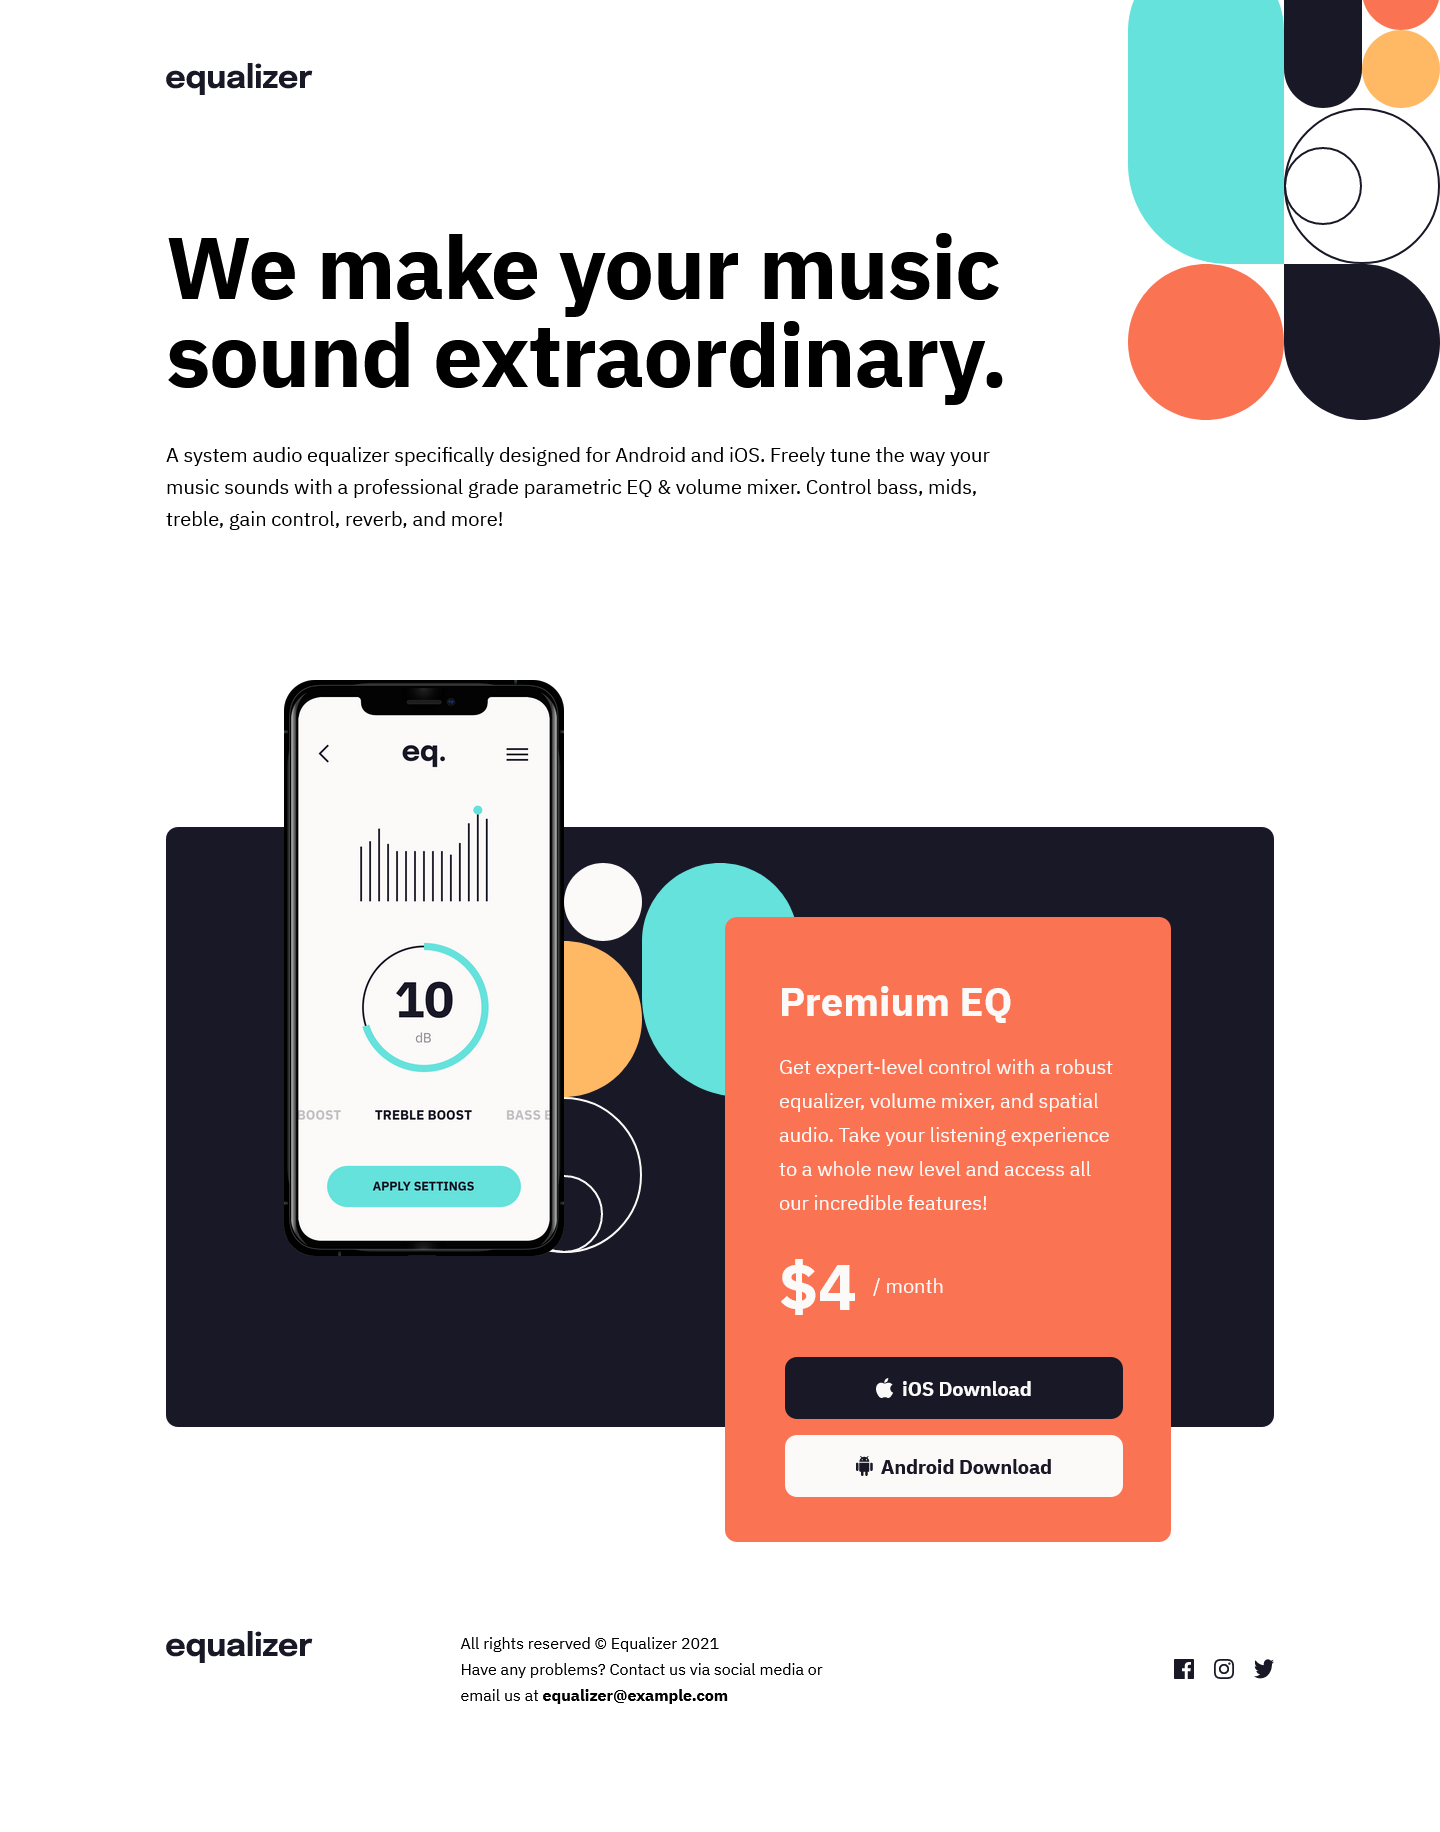
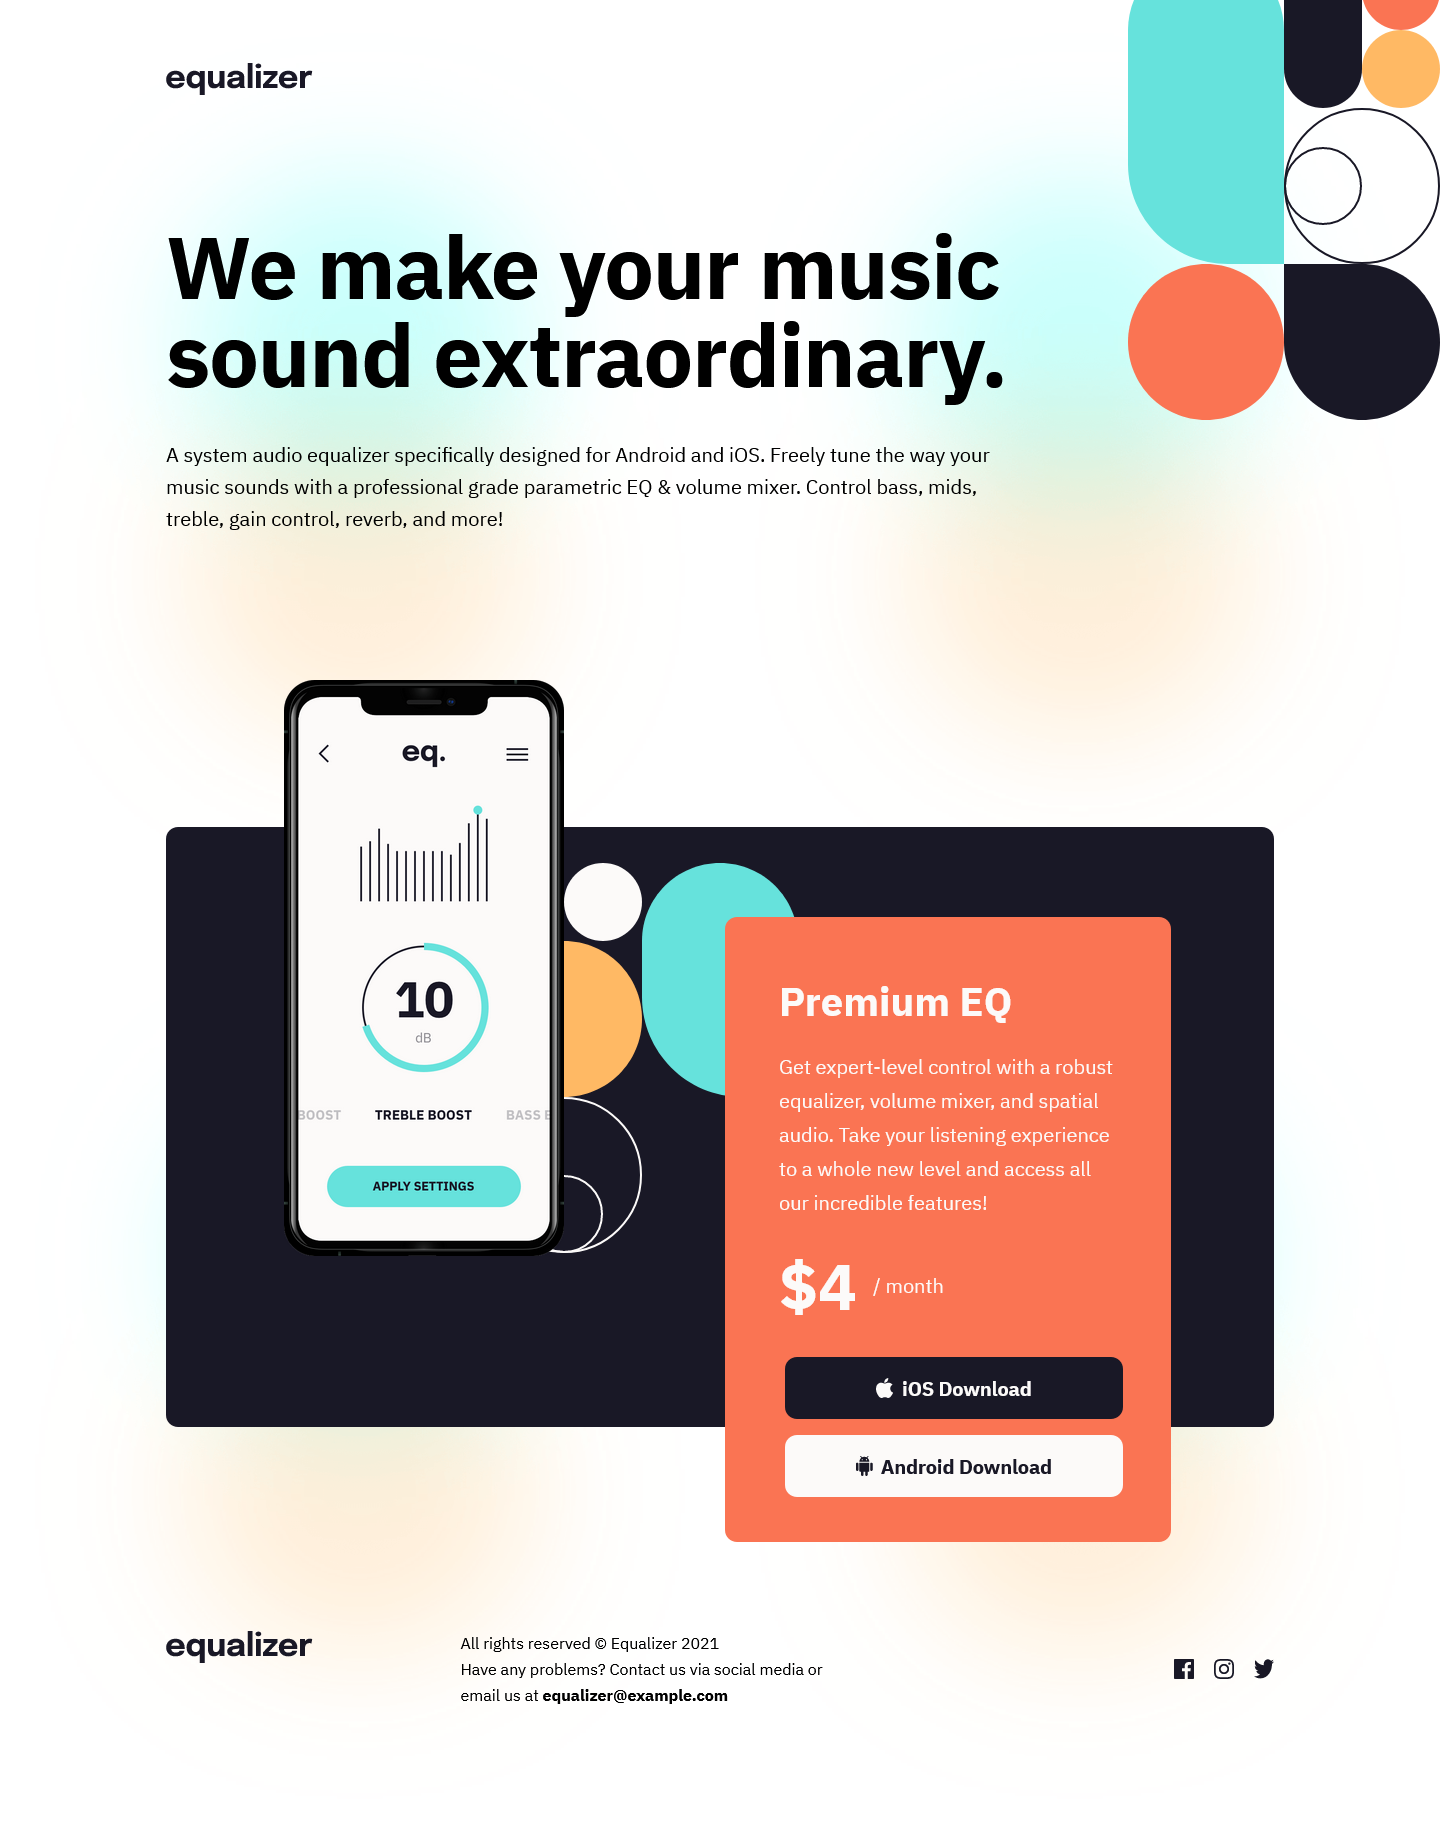
equalizer-landing-page/screenshots updated

diff --git a/equalizer-landing-page/style.css b/equalizer-landing-page/style.css
@@ -152,7 +152,8 @@ html {
 body {
   font-size: var(--fs-body);
   background-image: url(./assets/bg-main-mobile.png);
-  background-position: center left;
+  background-repeat: no-repeat;
+  background-position: top -10rem left;
 }
 
 h1 {
@@ -362,10 +363,11 @@ img[data-icon="social-media"]:hover {
 /*Tablet Design*/
 @media (min-width: 600px) {
   body {
-    background-image: url(./assets/bg-pattern-1.svg);
-    background-repeat: no-repeat;
-    background-position: top -2rem right -2rem;
-    background-size: auto 400px;
+    background-image: url(./assets/bg-pattern-1.svg),
+      url(./assets/bg-main-mobile.png);
+    background-repeat: no-repeat, no-repeat;
+    background-position: top -2rem right -2rem, right -7rem top -10rem;
+    background-size: auto 400px, 100%;
   }
 
   /*Locally change some variable's value to indirectly modify some utility classes*/
@@ -462,8 +464,9 @@ img[data-icon="social-media"]:hover {
 
 @media (min-width: 1300px) {
   body {
-    background-position: top -3rem right 0;
-    background-size: auto 468px;
+    background-repeat: no-repeat, repeat;
+    background-position: top -3rem right 0, right 0 top 0;
+    background-size: auto 468px, 50% 50%;
   }
 
   header {
